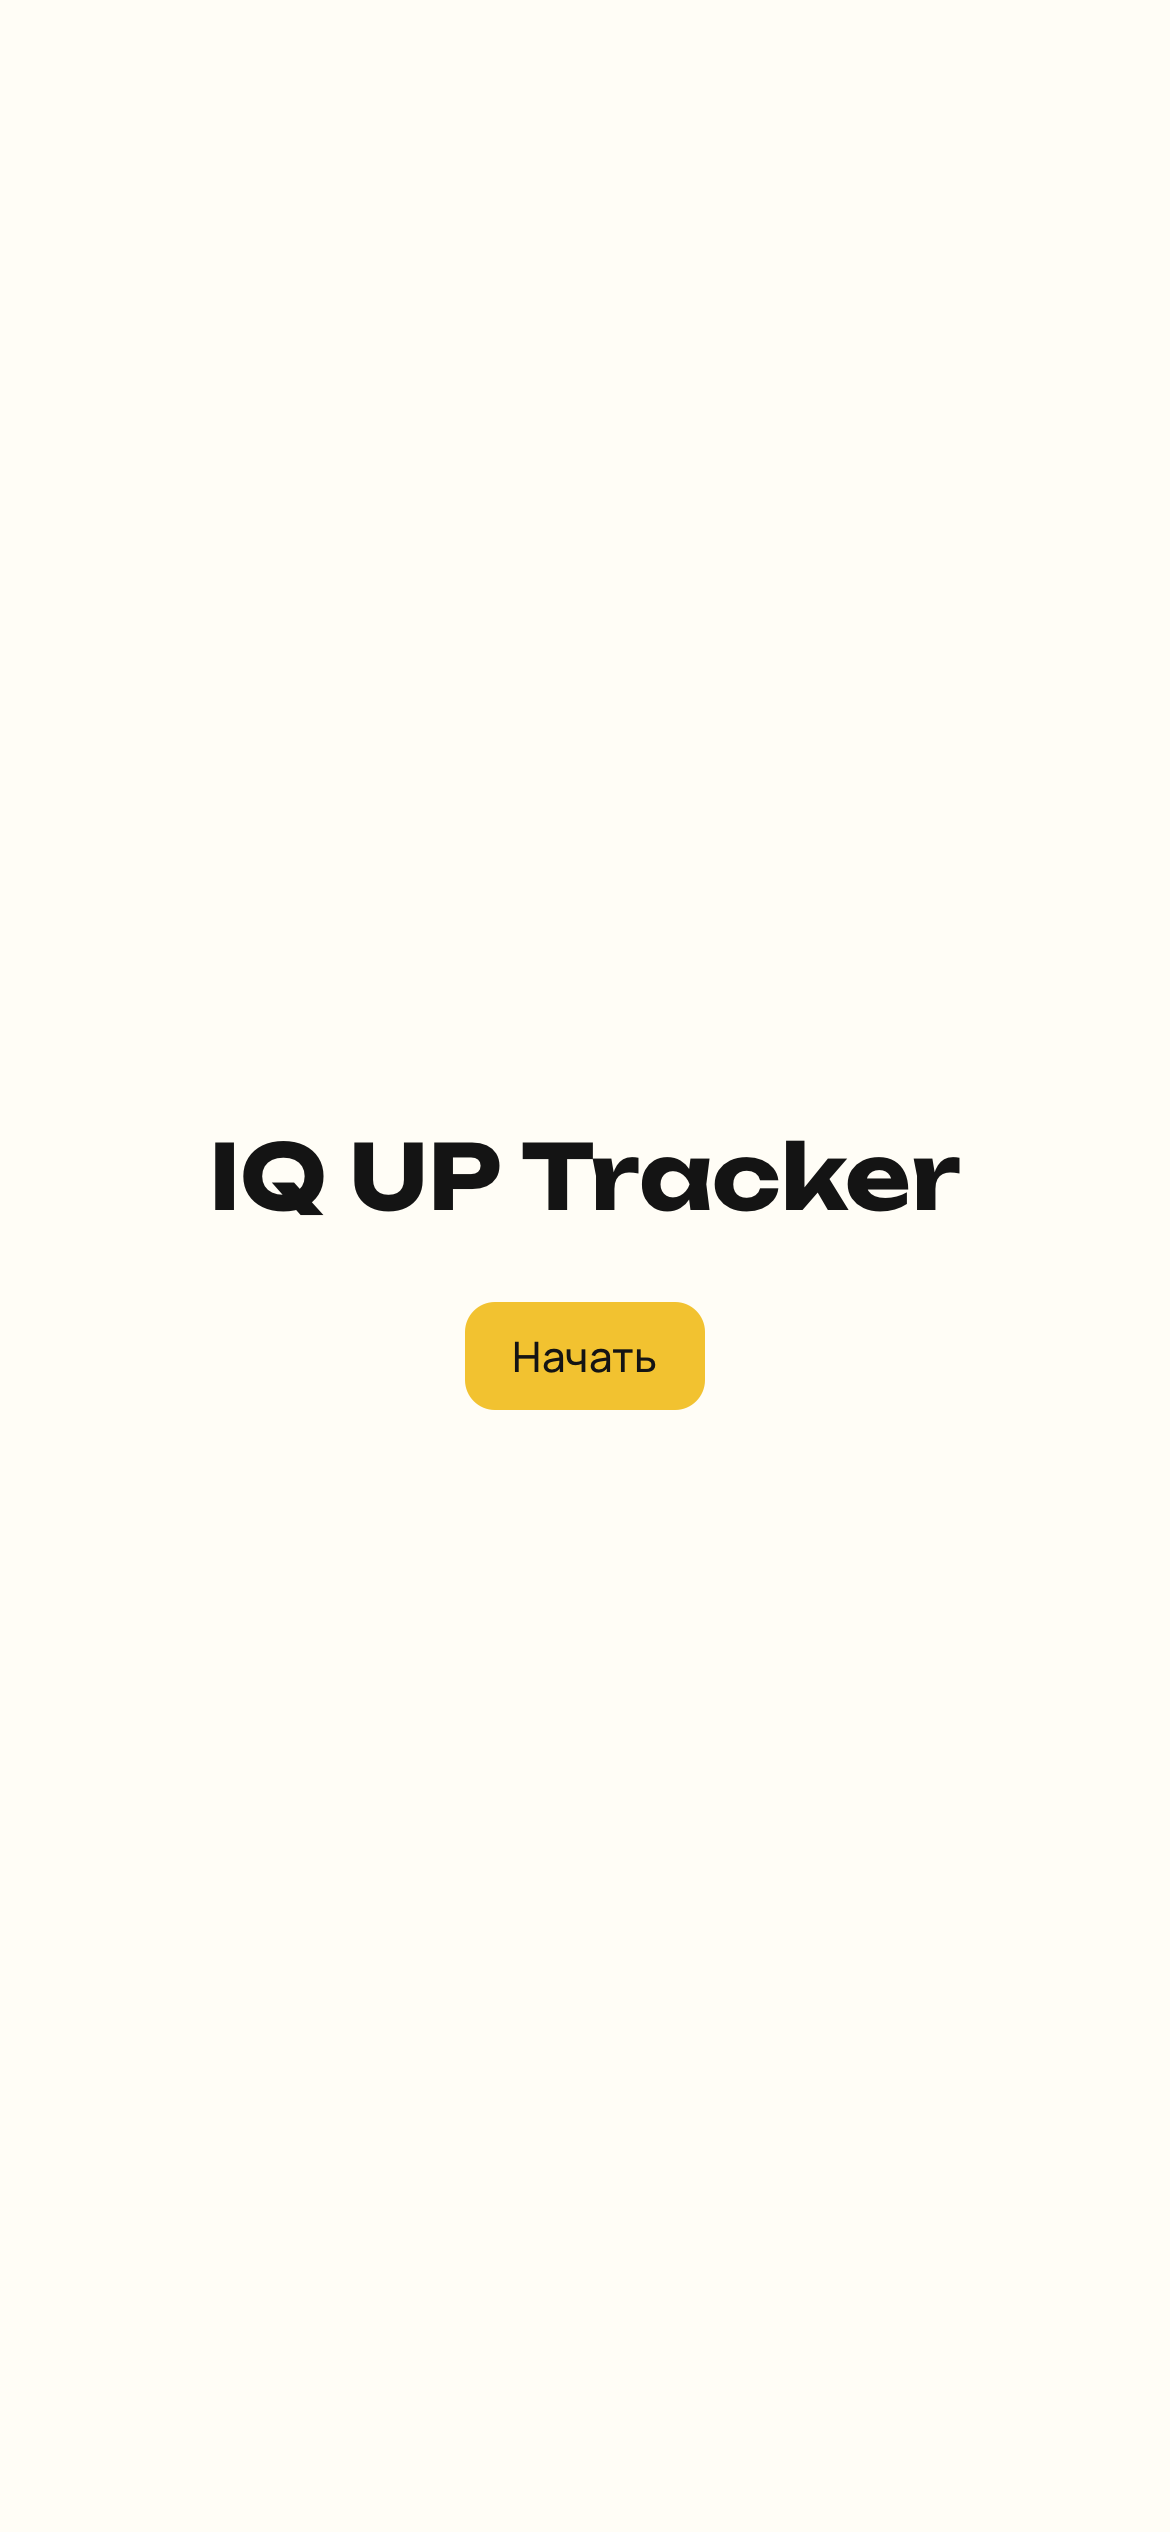
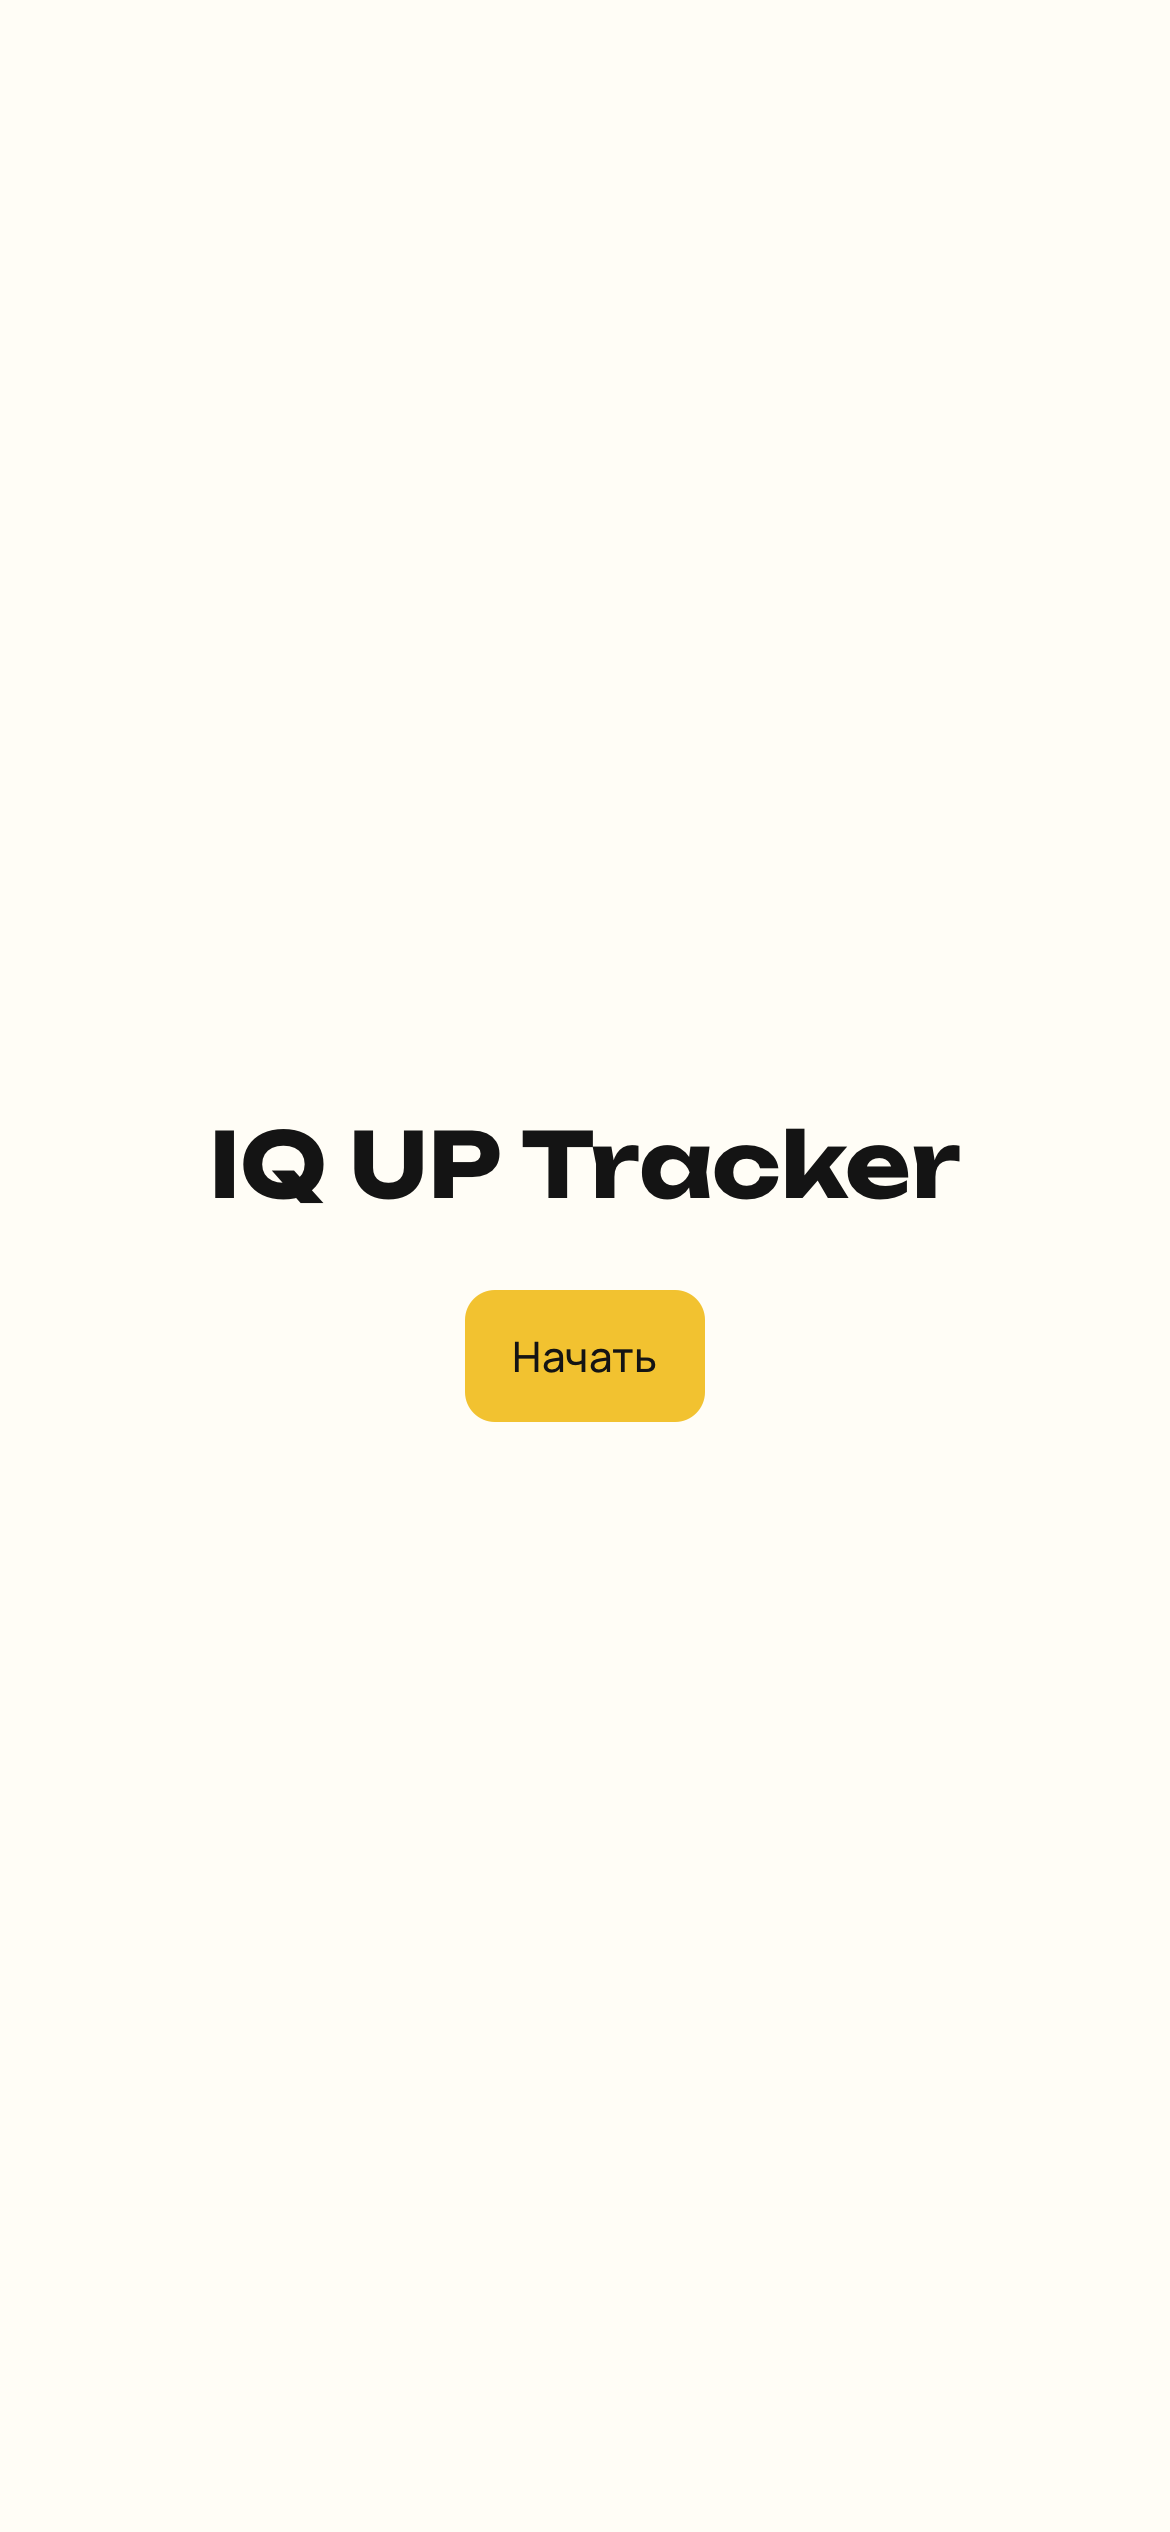
fix: правки по ревью PR #15 (#1)
- shadcn-примитивы импортировали cn из чужого npm-пакета 'cn' — вернул на @/lib/utils, пакет удалён, ESLint запрещает импорт 'cn'
- брендовые токены muted/accent переименованы в ink-muted/teal; muted/accent отданы shadcn как светлые поверхности
- Button: default h-11, icon size-11 (44 px tap target)
- CI: cp .env.example .env перед build, отдельный job e2e (WebKit)
- .env.example: локальные значения Supabase; CLAUDE.md и architecture §3 обновлены

Changed region(s): [[0.3077, 0.4368, 0.8308, 0.5616], [0.1846, 0.4368, 0.2769, 0.4992]]

diff --git a/src/styles/index.css b/src/styles/index.css
@@ -18,8 +18,10 @@
   --primary-foreground: var(--ink);
   --secondary: var(--line);
   --secondary-foreground: var(--ink);
-  --muted-foreground: var(--muted);
-  --accent-foreground: #ffffff;
+  --muted: #f5f2e8;
+  --muted-foreground: var(--ink-muted);
+  --accent: #fff8e1;
+  --accent-foreground: var(--ink);
   --destructive: var(--burned);
   --border: var(--line);
   --input: var(--line);
@@ -30,8 +32,8 @@
   --color-brand: var(--brand);
   --color-ink: var(--ink);
   --color-paper: var(--paper);
-  --color-muted: var(--muted);
-  --color-accent: var(--accent);
+  --color-ink-muted: var(--ink-muted);
+  --color-teal: var(--teal);
   --color-present: var(--present);
   --color-burned: var(--burned);
   --color-warn: var(--warn);
@@ -48,7 +50,9 @@
   --color-primary-foreground: var(--primary-foreground);
   --color-secondary: var(--secondary);
   --color-secondary-foreground: var(--secondary-foreground);
+  --color-muted: var(--muted);
   --color-muted-foreground: var(--muted-foreground);
+  --color-accent: var(--accent);
   --color-accent-foreground: var(--accent-foreground);
   --color-destructive: var(--destructive);
   --color-border: var(--border);

diff --git a/src/components/ui/button.tsx b/src/components/ui/button.tsx
@@ -1,6 +1,6 @@
 import * as React from 'react'
 import { cva, type VariantProps } from 'class-variance-authority'
-import { cn } from 'cn'
+import { cn } from '@/lib/utils'
 import { Slot } from 'radix-ui'
 
 const buttonVariants = cva(
@@ -18,11 +18,12 @@ const buttonVariants = cva(
         link: 'text-primary underline-offset-4 hover:underline',
       },
       size: {
-        default: 'h-9 px-4 py-2 has-[>svg]:px-3',
+        // 44 px tap target by default (docs/02-architecture.md §3); sm stays 32 px for desktop tables
+        default: 'h-11 px-4 py-2 has-[>svg]:px-3',
         xs: "h-6 gap-1 rounded-md px-2 text-xs has-[>svg]:px-1.5 [&_svg:not([class*='size-'])]:size-3",
         sm: 'h-8 gap-1.5 rounded-md px-3 has-[>svg]:px-2.5',
         lg: 'h-10 rounded-md px-6 has-[>svg]:px-4',
-        icon: 'size-9',
+        icon: 'size-11',
         'icon-xs': "size-6 rounded-md [&_svg:not([class*='size-'])]:size-3",
         'icon-sm': 'size-8',
         'icon-lg': 'size-10',

diff --git a/src/styles/tokens.css b/src/styles/tokens.css
@@ -1,10 +1,12 @@
-/* Brand tokens — docs/02-architecture.md §3. Components use utilities (bg-brand, text-ink …), never raw hex. */
+/* Brand tokens — docs/02-architecture.md §3. Components use utilities (bg-brand, text-ink …), never raw hex.
+   Names avoid shadcn semantics: `muted`/`accent` are shadcn surfaces (see index.css),
+   brand secondary text is `ink-muted`, brand teal (time, links, freeze) is `teal`. */
 :root {
   --brand: #f2c230;
   --ink: #141414;
   --paper: #fffdf6;
-  --muted: #6b6b6b;
-  --accent: #1c8c9e;
+  --ink-muted: #6b6b6b;
+  --teal: #1c8c9e;
   --present: #1e9e5a;
   --burned: #d64545;
   --warn: #b86a00;

diff --git a/eslint.config.js b/eslint.config.js
@@ -30,6 +30,11 @@ export default tseslint.config(
     },
     rules: {
       '@typescript-eslint/restrict-template-expressions': ['error', { allowNumber: true }],
+      // shadcn CLI falls back to the unrelated npm package `cn` when it can't resolve `@/`
+      'no-restricted-imports': [
+        'error',
+        { paths: [{ name: 'cn', message: "Use cn from '@/lib/utils'." }] },
+      ],
     },
   },
   {

diff --git a/src/components/ui/tabs.tsx b/src/components/ui/tabs.tsx
@@ -1,6 +1,6 @@
 import * as React from 'react'
 import { cva, type VariantProps } from 'class-variance-authority'
-import { cn } from 'cn'
+import { cn } from '@/lib/utils'
 import { Tabs as TabsPrimitive } from 'radix-ui'
 
 function Tabs({

diff --git a/src/components/ui/badge.tsx b/src/components/ui/badge.tsx
@@ -1,6 +1,6 @@
 import * as React from 'react'
 import { cva, type VariantProps } from 'class-variance-authority'
-import { cn } from 'cn'
+import { cn } from '@/lib/utils'
 import { Slot } from 'radix-ui'
 
 const badgeVariants = cva(

diff --git a/src/components/ui/select.tsx b/src/components/ui/select.tsx
@@ -1,5 +1,5 @@
 import * as React from 'react'
-import { cn } from 'cn'
+import { cn } from '@/lib/utils'
 import { CheckIcon, ChevronDownIcon, ChevronUpIcon } from 'lucide-react'
 import { Select as SelectPrimitive } from 'radix-ui'
 

diff --git a/src/components/ui/sheet.tsx b/src/components/ui/sheet.tsx
@@ -1,7 +1,7 @@
 'use client'
 
 import * as React from 'react'
-import { cn } from 'cn'
+import { cn } from '@/lib/utils'
 import { XIcon } from 'lucide-react'
 import { Dialog as SheetPrimitive } from 'radix-ui'
 

diff --git a/src/components/ui/table.tsx b/src/components/ui/table.tsx
@@ -1,7 +1,7 @@
 'use client'
 
 import * as React from 'react'
-import { cn } from 'cn'
+import { cn } from '@/lib/utils'
 
 function Table({ className, ...props }: React.ComponentProps<'table'>) {
   return (

diff --git a/src/components/ui/dialog.tsx b/src/components/ui/dialog.tsx
@@ -1,5 +1,5 @@
 import * as React from 'react'
-import { cn } from 'cn'
+import { cn } from '@/lib/utils'
 import { XIcon } from 'lucide-react'
 import { Dialog as DialogPrimitive } from 'radix-ui'
 

diff --git a/src/components/ui/input.tsx b/src/components/ui/input.tsx
@@ -1,5 +1,5 @@
 import * as React from 'react'
-import { cn } from 'cn'
+import { cn } from '@/lib/utils'
 
 function Input({ className, type, ...props }: React.ComponentProps<'input'>) {
   return (

diff --git a/CLAUDE.md b/CLAUDE.md
@@ -20,7 +20,7 @@ Vite + React 19 + TypeScript (strict) · TanStack Router + Query · Tailwind v4 
 Никакого Node-бэкенда, Server Actions, ORM. Вся логика доступа — RLS, расчёты — SQL-views + чистые TS-функции.
 
 ## UI
-Палитра и принципы — `docs/02-architecture.md` §3; макет — канвас Claude Design (ссылка в `docs/06-design.md`), каждый артборд = маршрут. Шрифты Unbounded (заголовки, суммы) + Manrope (текст) через `@fontsource`. Телефон 390 px и десктоп 1280 px — один маршрут, разные `MobileShell` / `DesktopShell` по `matchMedia('(min-width: 900px)')`. Safari: `100dvh`, safe-area, 16 px в инпутах, анимировать только `transform`/`opacity`, `prefers-reduced-motion` отключает 3D. 3D только в трёх местах (колода занятий, flip ученика, tilt карточки ЗП). Цвета — токены из `src/styles/tokens.css`, не hex в компонентах. Статус всегда цвет + текст. Бейджи и телефоны — `whitespace-nowrap`.
+Палитра и принципы — `docs/02-architecture.md` §3; макет — канвас Claude Design (ссылка в `docs/06-design.md`), каждый артборд = маршрут. Шрифты Unbounded (заголовки, суммы) + Manrope (текст) через `@fontsource`. Телефон 390 px и десктоп 1280 px — один маршрут, разные `MobileShell` / `DesktopShell` по `matchMedia('(min-width: 900px)')`. Safari: `100dvh`, safe-area, 16 px в инпутах, анимировать только `transform`/`opacity`, `prefers-reduced-motion` отключает 3D. 3D только в трёх местах (колода занятий, flip ученика, tilt карточки ЗП). Цвета — токены из `src/styles/tokens.css`, не hex в компонентах; вторичный текст — `text-ink-muted`, бирюза (время, ссылки, заморозка) — `text-teal`/`bg-teal`, а `muted`/`accent` — светлые поверхности shadcn (не путать). Кнопки по умолчанию 44 px (`size="default"`/`"icon"`), `sm` — только для плотных десктопных таблиц. Статус всегда цвет + текст. Бейджи и телефоны — `whitespace-nowrap`.
 
 ## Время и синхронизация (`docs/02-architecture.md` §7.1)
 `useNow()` тикает раз в 30 с, всё зависящее от времени — чистые функции от `(data, now)`. `now = Date.now() + serverOffset` (offset берём RPC `server_now()` при входе). На `visibilitychange`/`focus`/`online` — немедленный tick + `invalidateQueries`. Чужие изменения — Supabase Realtime → `invalidateQueries`; страховка `refetchOnWindowFocus`, `refetchOnReconnect`, `refetchInterval: 60_000`. Времена в таблицы пишет только БД (`default now()`).
